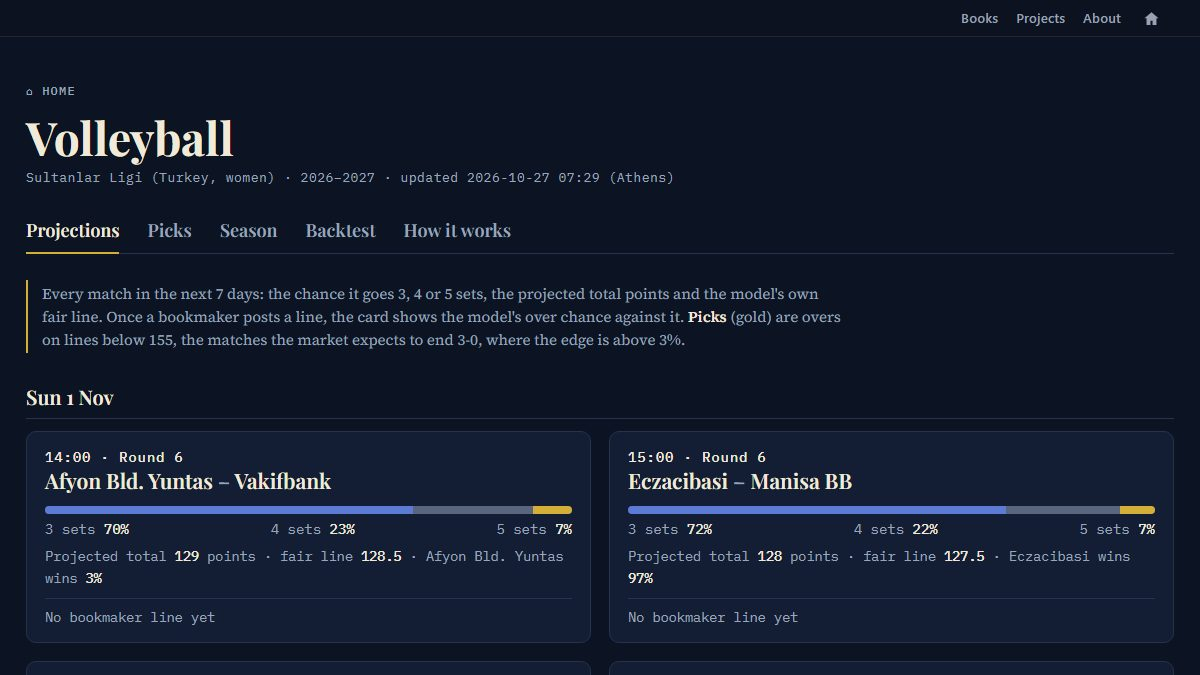
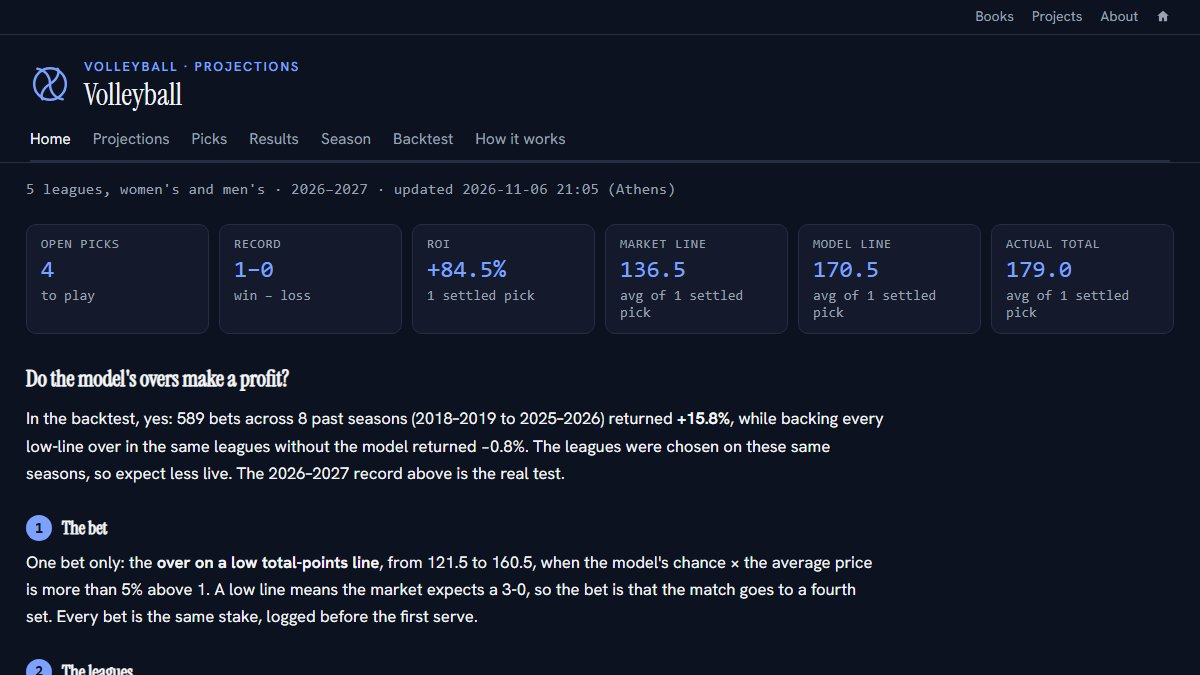
Homepage: project screenshots load up front; retake Handball and Volleyball, which had stopped refreshing

diff --git a/index.html b/index.html
@@ -392,7 +392,7 @@ body { overflow-x: clip; }  /* safety net */
       <p class="sec-intro">Eleven data projects: models I build and test myself, in Greek football, European basketball, volleyball and handball, and two hubs for PAOK, a lifelong passion. 2026-27 is the models' test season, so read their records as early results. ROI is profit ÷ total staked, with pushes left out.</p>
       <div class="cards">
         <a class="card" href="/superleague/">
-          <div class="card-shot"><img src="superleague.jpg?v=a158bd42" width="1200" height="675" loading="lazy" alt="Greek Super League projections for one game"></div>
+          <div class="card-shot"><img src="superleague.jpg?v=a158bd42" width="1200" height="675" fetchpriority="low" alt="Greek Super League projections for one game"></div>
           <span class="tag"><svg class="an-mark-sm" aria-hidden="true"><use href="/assets/marks.svg#football"/></svg>Modelling · Football · Test season</span>
           <h3>Greek Super League</h3>
           <p>Projections for every Super League game: goals, shots, corners, cards, fouls and saves, each tested against what happened.</p>
@@ -400,7 +400,7 @@ body { overflow-x: clip; }  /* safety net */
           <span class="go">Open <i aria-hidden="true">→</i></span>
         </a>
         <a class="card" href="/football/greek-cup/">
-          <div class="card-shot"><img src="greek-cup.jpg?v=86296833" width="1200" height="675" loading="lazy" alt="Greek Cup match stats by round"></div>
+          <div class="card-shot"><img src="greek-cup.jpg?v=86296833" width="1200" height="675" fetchpriority="low" alt="Greek Cup match stats by round"></div>
           <span class="tag"><svg class="an-mark-sm" aria-hidden="true"><use href="/assets/marks.svg#cup"/></svg>Stats · Football</span>
           <h3>Greek Cup</h3>
           <p>Every Greek Cup game this season: goals, shots, shots on target, fouls, goal kicks and cards, with team averages, game totals and Super League v Super League 2 splits.</p>
@@ -408,7 +408,7 @@ body { overflow-x: clip; }  /* safety net */
           <span class="go">Open <i aria-hidden="true">→</i></span>
         </a>
         <a class="card" href="/paok-hub/">
-          <div class="card-shot"><img src="paok-hub.jpg?v=126bb6b1" width="1200" height="675" loading="lazy" alt="PAOK Hub: the Expected Table"></div>
+          <div class="card-shot"><img src="paok-hub.jpg?v=126bb6b1" width="1200" height="675" fetchpriority="low" alt="PAOK Hub: the Expected Table"></div>
           <span class="tag"><svg class="an-mark-sm" aria-hidden="true"><use href="/assets/marks.svg#paok"/></svg>Stats hub · PAOK FC</span>
           <h3>PAOK Hub</h3>
           <p>PAOK's football seasons told through data: how the team plays, how the players perform, and how results compare with what the numbers expected.</p>
@@ -416,7 +416,7 @@ body { overflow-x: clip; }  /* safety net */
           <span class="go">Open <i aria-hidden="true">→</i></span>
         </a>
         <a class="card" href="/paok-basketball/">
-          <div class="card-shot"><img src="paok-basketball.jpg?v=30d337f2" width="1200" height="675" loading="lazy" alt="PAOK Basketball hub: next game and season leaders"></div>
+          <div class="card-shot"><img src="paok-basketball.jpg?v=30d337f2" width="1200" height="675" fetchpriority="low" alt="PAOK Basketball hub: next game and season leaders"></div>
           <span class="tag"><svg class="an-mark-sm" aria-hidden="true"><use href="/assets/marks.svg#paok"/></svg>Stats hub · PAOK Basketball</span>
           <h3>PAOK Basketball</h3>
           <p>Everything about PAOK's basketball season in one place: roster, schedule, team and player stats, and standings.</p>
@@ -424,7 +424,7 @@ body { overflow-x: clip; }  /* safety net */
           <span class="go">Open <i aria-hidden="true">→</i></span>
         </a>
         <a class="card" href="/eurocup/">
-          <div class="card-shot"><img src="eurocup.jpg?v=55ddd539" width="1200" height="675" loading="lazy" alt="EuroCup tool: every club this season"></div>
+          <div class="card-shot"><img src="eurocup.jpg?v=55ddd539" width="1200" height="675" fetchpriority="low" alt="EuroCup tool: every club this season"></div>
           <span class="tag"><svg class="an-mark-sm" aria-hidden="true"><use href="/assets/marks.svg#basketball"/></svg>Modelling · Basketball · Test season</span>
           <h3>EuroCup</h3>
           <p>Every EuroCup club this season: projections tested game by game, head-to-heads by country and club since 2015-16, key players and Elo power rankings.</p>
@@ -432,7 +432,7 @@ body { overflow-x: clip; }  /* safety net */
           <span class="go">Open <i aria-hidden="true">→</i></span>
         </a>
         <a class="card" href="/fibaeuropecup/">
-          <div class="card-shot"><img src="fibaeuropecup.jpg?v=f25d3fdc" width="1200" height="675" loading="lazy" alt="FIBA Europe Cup tool: head-to-head table"></div>
+          <div class="card-shot"><img src="fibaeuropecup.jpg?v=f25d3fdc" width="1200" height="675" fetchpriority="low" alt="FIBA Europe Cup tool: head-to-head table"></div>
           <span class="tag"><svg class="an-mark-sm" aria-hidden="true"><use href="/assets/marks.svg#basketball"/></svg>Modelling · Basketball · Test season</span>
           <h3>FIBA Europe Cup</h3>
           <p>Twelve seasons of the competition in one tool: head-to-heads by country and club, next-round fixtures, projections and Elo power rankings.</p>
@@ -440,7 +440,7 @@ body { overflow-x: clip; }  /* safety net */
           <span class="go">Open <i aria-hidden="true">→</i></span>
         </a>
         <a class="card" href="/basketball/">
-          <div class="card-shot"><img src="basketball.jpg?v=a4421126" width="1200" height="675" loading="lazy" alt="Basketball projections and team strength"></div>
+          <div class="card-shot"><img src="basketball.jpg?v=a4421126" width="1200" height="675" fetchpriority="low" alt="Basketball projections and team strength"></div>
           <span class="tag"><svg class="an-mark-sm" aria-hidden="true"><use href="/assets/marks.svg#basketball"/></svg>Modelling · Basketball · Test season</span>
           <h3>Basketball projections</h3>
           <p>Greek Basket League and Cyprus: game projections, team strength from players and availability, and a fatigue factor for European weeks.</p>
@@ -448,7 +448,7 @@ body { overflow-x: clip; }  /* safety net */
           <span class="go">Open <i aria-hidden="true">→</i></span>
         </a>
         <a class="card" href="/basketball/overs/">
-          <div class="card-shot"><img src="basketball-overs.jpg?v=7c4df1e4" width="1200" height="675" loading="lazy" alt="Basketball totals: the over picks and their record"></div>
+          <div class="card-shot"><img src="basketball-overs.jpg?v=7c4df1e4" width="1200" height="675" fetchpriority="low" alt="Basketball totals: the over picks and their record"></div>
           <span class="tag"><svg class="an-mark-sm" aria-hidden="true"><use href="/assets/marks.svg#basketball"/></svg>Modelling · Basketball · Test season</span>
           <h3>Basketball totals</h3>
           <p>A model for game totals in six European leagues: EuroLeague, EuroCup, ACB, BBL, Lega A and the Greek Basket League. Four seasons of backtest and the live record.</p>
@@ -456,7 +456,7 @@ body { overflow-x: clip; }  /* safety net */
           <span class="go">Open <i aria-hidden="true">→</i></span>
         </a>
         <a class="card" href="/basketball/women/">
-          <div class="card-shot"><img src="basketball-women.jpg?v=429ed74a" width="1200" height="675" loading="lazy" alt="Women's basketball totals: the picks and their record"></div>
+          <div class="card-shot"><img src="basketball-women.jpg?v=429ed74a" width="1200" height="675" fetchpriority="low" alt="Women's basketball totals: the picks and their record"></div>
           <span class="tag"><svg class="an-mark-sm" aria-hidden="true"><use href="/assets/marks.svg#basketball"/></svg>Modelling · Basketball · Test season</span>
           <h3>Women's basketball totals</h3>
           <p>A model for overs in 5 European domestic leagues. Five seasons of backtest and the live record.</p>
@@ -464,7 +464,7 @@ body { overflow-x: clip; }  /* safety net */
           <span class="go">Open <i aria-hidden="true">→</i></span>
         </a>
         <a class="card" href="/volleyball/">
-          <div class="card-shot"><img src="volleyball.jpg?v=3cb1c492" width="1200" height="675" loading="lazy" alt="Volleyball projections: set count and total points for every match"></div>
+          <div class="card-shot"><img src="volleyball.jpg?v=2ac640ab" width="1200" height="675" fetchpriority="low" alt="Volleyball projections: set count and total points for every match"></div>
           <span class="tag"><svg class="an-mark-sm" aria-hidden="true"><use href="/assets/marks.svg#volleyball"/></svg>Modelling · Volleyball · Test season</span>
           <h3>Volleyball</h3>
           <p>Japan, Germany and France (women), Italy and Argentina (men): the five leagues where the model held up in testing. The chance of 3, 4 or 5 sets, total points and the live record.</p>
@@ -472,7 +472,7 @@ body { overflow-x: clip; }  /* safety net */
           <span class="go">Open <i aria-hidden="true">→</i></span>
         </a>
         <a class="card" href="/handball/">
-          <div class="card-shot"><img src="handball.jpg?v=3b074bff" width="1200" height="675" loading="lazy" alt="Handball value signals: projections page"></div>
+          <div class="card-shot"><img src="handball.jpg?v=31d06137" width="1200" height="675" fetchpriority="low" alt="Handball value signals: projections page"></div>
           <span class="tag"><svg class="an-mark-sm" aria-hidden="true"><use href="/assets/marks.svg#handball"/></svg>Modelling · Handball · Test season</span>
           <h3>Handball</h3>
           <p>Goal projections for five leagues, with five more in testing, tested game by game, plus Magdeburg's first-half pattern as a heavy home favourite.</p>

diff --git a/scripts/update_shots.py b/scripts/update_shots.py
@@ -32,7 +32,8 @@ SHOTS = [
     ("/football/greek-cup/", "greek-cup"),
     ("/eurocup/", "eurocup"),
     ("/fibaeuropecup/", "fibaeuropecup"),
-    ("/handball/projections/", "handball"),
+    ("/volleyball/", "volleyball"),
+    ("/handball/", "handball"),
     ("/basketball/", "basketball"),
     ("/basketball/overs/", "basketball-overs"),
     ("/basketball/women/", "basketball-women"),
